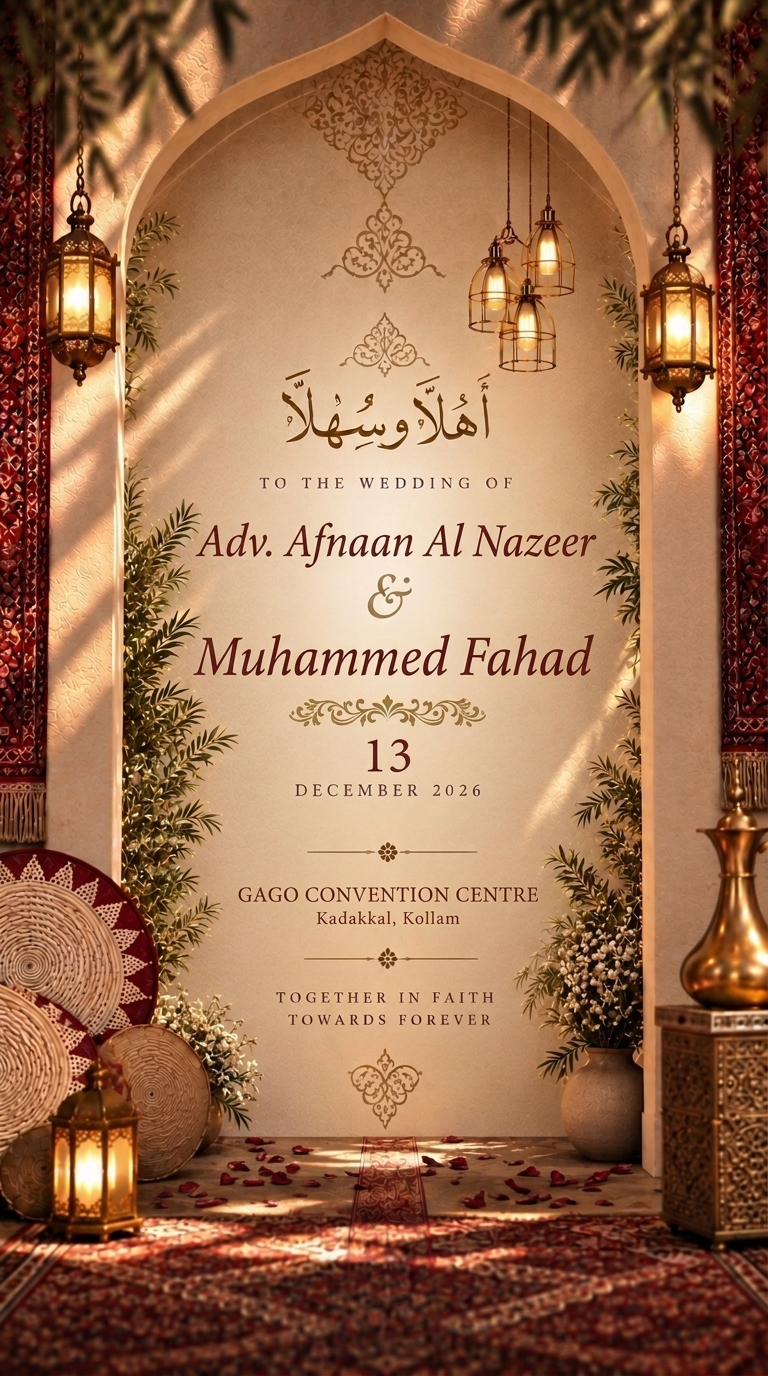
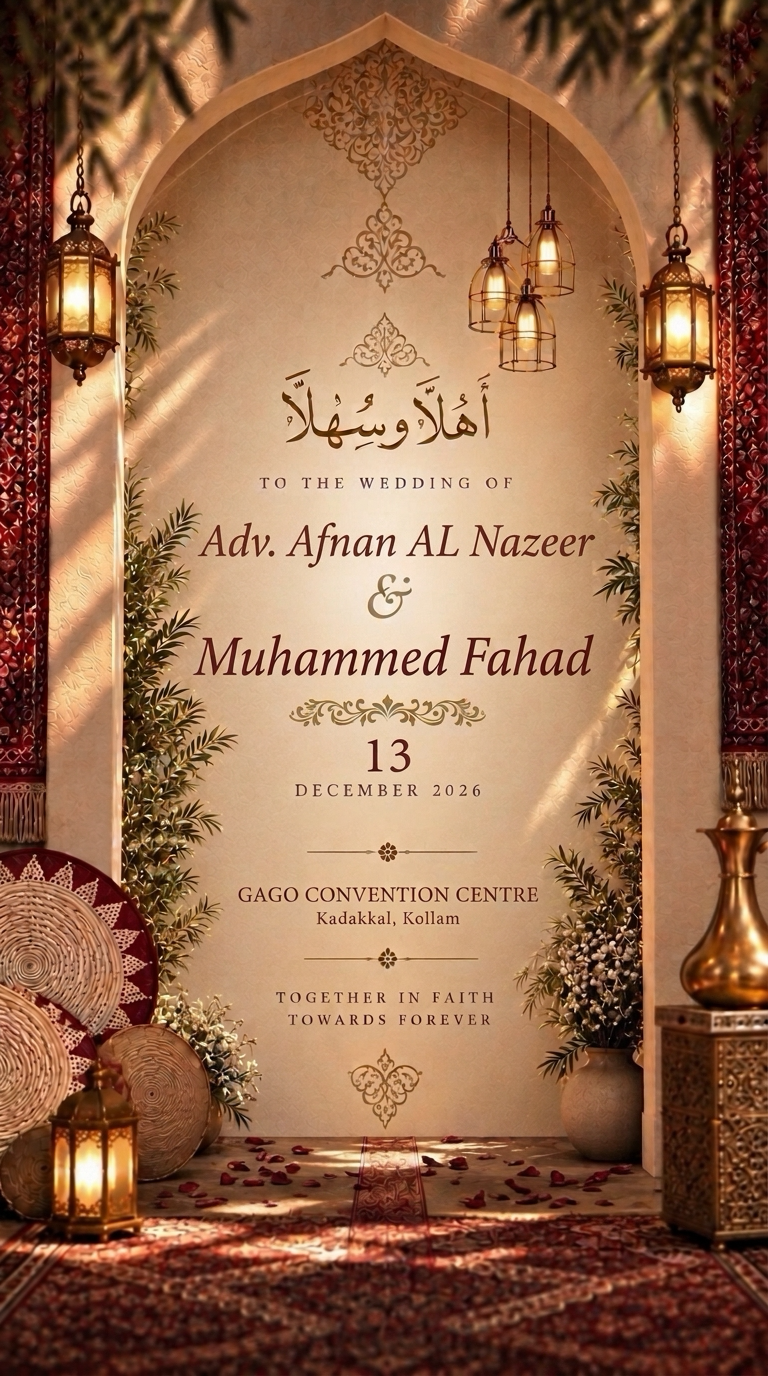
Update hero image and og-image with Adv. Afnan AL Nazeer

diff --git a/index.html b/index.html
@@ -13,7 +13,7 @@
 <meta name="description" content="You are cordially invited to celebrate the wedding ceremonies of Adv. Afnan AL Nazeer &amp; Muhammed Fahad · Nikah on Sunday, 13 December 2026 · Kadakkal, Kollam">
 <meta property="og:title" content="Adv. Afnan &amp; Muhammed Fahad — Wedding Invitation">
 <meta property="og:description" content="You are cordially invited to celebrate the wedding ceremonies of Adv. Afnan AL Nazeer &amp; Muhammed Fahad · Nikah on Sunday, 13 December 2026 · Kadakkal, Kollam">
-<meta property="og:image" content="assets/og-image.jpg">
+<meta property="og:image" content="assets/og-image.jpg?v=2">
 <meta property="og:image:width" content="1200">
 <meta property="og:image:height" content="630">
 <meta property="og:image:alt" content="Wedding invitation of Adv. Afnan AL Nazeer &amp; Muhammed Fahad, 13 December 2026">
@@ -22,7 +22,7 @@
 <meta name="twitter:card" content="summary_large_image">
 <meta name="twitter:title" content="Adv. Afnan &amp; Muhammed Fahad — Wedding Invitation">
 <meta name="twitter:description" content="You are cordially invited to celebrate the wedding ceremonies of Adv. Afnan AL Nazeer &amp; Muhammed Fahad · Nikah on Sunday, 13 December 2026 · Kadakkal, Kollam">
-<meta name="twitter:image" content="assets/og-image.jpg">
+<meta name="twitter:image" content="assets/og-image.jpg?v=2">
 <meta name="theme-color" content="#3d0c15">
 
 <link rel="preconnect" href="https://fonts.googleapis.com">
@@ -828,7 +828,7 @@
   <section id="opening" aria-label="Opening">
     <!-- Underneath: Revealed hero image with Adv. Afnan & Muhammed Fahad -->
     <div class="door-reveal-bg">
-      <img src="assets/hero.png" alt="Adv. Afnan AL Nazeer & Muhammed Fahad Wedding Invitation">
+      <img src="assets/hero.png?v=2" alt="Adv. Afnan AL Nazeer & Muhammed Fahad Wedding Invitation">
     </div>
 
     <!-- 3D Double Doors -->
@@ -865,7 +865,7 @@
 
     <!-- HERO -->
     <section id="hero" class="page">
-      <img class="hero-img" src="assets/hero.png" alt="Wedding invitation of Adv. Afnan AL Nazeer and Muhammed Fahad, 13 December 2026 — GAGO Convention Centre, Kadakkal, Kollam">
+      <img class="hero-img" src="assets/hero.png?v=2" alt="Wedding invitation of Adv. Afnan AL Nazeer and Muhammed Fahad, 13 December 2026 — GAGO Convention Centre, Kadakkal, Kollam">
       <div class="hero-butterfly hero-butterfly-1"><img src="assets/butterfly.png" alt=""></div>
       <div class="hero-butterfly hero-butterfly-2"><img src="assets/butterfly.png" alt=""></div>
       <div class="scroll-cue">
